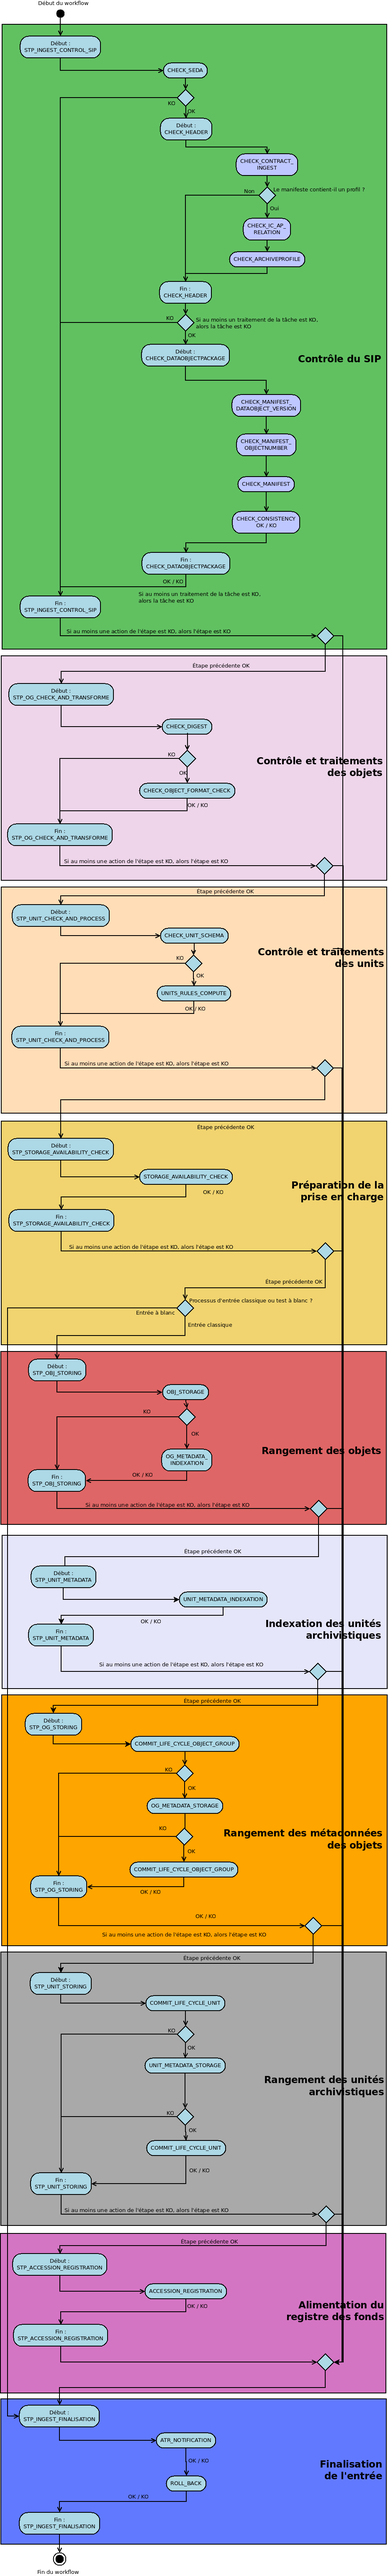
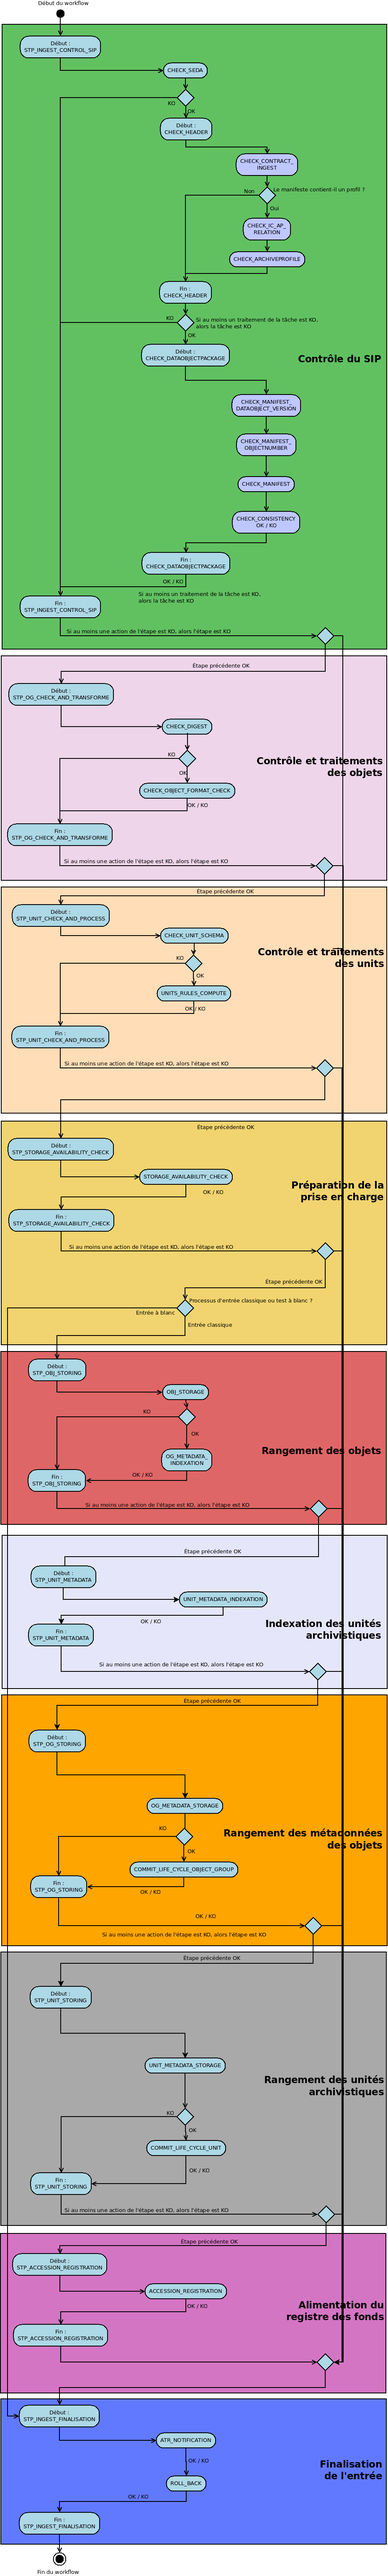
Update workflow model and diagram

diff --git a/doc/fr/workflow-model/ingest/workflow.rst b/doc/fr/workflow-model/ingest/workflow.rst
@@ -336,7 +336,7 @@ Ecriture des objets sur l'offre de stockage (OBJ_STORAGE)
 Indexation des métadonnées des groupes d'objets (OG_METADATA_INDEXATION)
 ~~~~~~~~~~~~~~~~~~~~~~~~~~~~~~~~~~~~~~~~~~~~~~~~~~~~~~~~~~~~~~~~~~~~~~~~
 
-+ **Règle** : indexation des métadonnées liées aux groupes d'objets, commela taille des objets, les métadonnées liées aux formats (Type MIME, PUID, etc.), l'empreinte des objets, etc.
++ **Règle** : indexation des métadonnées liées aux groupes d'objets, comme la taille des objets, les métadonnées liées aux formats (Type MIME, PUID, etc.), l'empreinte des objets, etc.
 
 + **Type** : bloquant.
 
@@ -371,23 +371,10 @@ Indexation des métadonnées des unités archivistiques (UNIT_METADATA_INDEXATIO
 Enregistrement et écriture des métadonnées des objets et groupes d'objets(STP_OG_STORING)
 ================================================================================================================
 
-Enregistrement des journaux du cycle de vie des groupes d'objets (COMMIT_LIFE_CYCLE_OBJECT_GROUP)
-~~~~~~~~~~~~~~~~~~~~~~~~~~~~~~~~~~~~~~~~~~~~~~~~~~~~~~~~~~~~~~~~~~~~~~~~~~~~~~~~~~~~~~~~~~~~~~~~~~~~~~~~~~~
-
-+ **Règle** : sécurisation en base des journaux du cycle de vie des groupes d'objets (avant cette étape, les journaux du cycle de vie des groupes d'objets sont dans une collection temporaire afin de garder une cohérence entre les métadonnées indexées et les journaux lors d'une entrée en succès ou en échec)
-
-+ **Type** : bloquant.
-
-+ **Statuts** :
-
-  - OK : La sécurisation des journaux du cycle de vie s'est correctement déroulée (COMMIT_LIFE_CYCLE_OBJECT_GROUP.OK=Succès de l'enregistrement des journaux du cycle de vie des groupes d''objets)
-
-  - FATAL : La sécurisation du journal du cycle de vie n'a pas pu être réalisée suite à une erreur technique (COMMIT_LIFE_CYCLE_OBJECT_GROUP.FATAL=Erreur fatale lors de l''enregistrement des journaux du cycle de vie des groupes d'objets)
-
 Ecriture des métadonnées du groupe d'objet sur l'offre de stockage (OG_METADATA_STORAGE)
 ~~~~~~~~~~~~~~~~~~~~~~~~~~~~~~~~~~~~~~~~~~~~~~~~~~~~~~~~~~~~~~~~~~~~~~~~~~~~~~~~~~~~~~~~~~~~~~~~~~~~~~~~~
 
-+ **Règle** : sauvegarde des métadonnées liées aux groupes d'objets sur les offres de stockage en fonction de la stratégie de stockage
++ **Règle** : sauvegarde des métadonnées liées aux groupes d'objets ainsi que leurs journaux de cycle de vie sur les offres de stockage en fonction de la stratégie de stockage
 
 + **Type** : bloquant.
 
@@ -414,23 +401,10 @@ Enregistrement des journaux du cycle de vie des groupes d'objets (COMMIT_LIFE_CY
 Enregistrement et écriture des unités archivistiques (STP_UNIT_STORING)
 ==========================================================================
 
-Enregistrement du journal du cycle de vie des unités archivistiques (COMMIT_LIFE_CYCLE_UNIT)
-~~~~~~~~~~~~~~~~~~~~~~~~~~~~~~~~~~~~~~~~~~~~~~~~~~~~~~~~~~~~~~~~~~~~~~~~~~~~~~~~~~~~~~~~~~~~~~~~~~~~~~~~~~~~~~
-
-+ **Règle** : sécurisation en base des journaux du cycle de vie des unités archivistiques (avant cette étape, les journaux du cycle de vie des unités archivistiques sont dans une collection temporaire afin de garder une cohérence entre les métadonnées indexées et les journaux lors d'une entrée en succès ou en échec)
-
-+ **Type** : bloquant.
-
-+ **Statuts** :
-
-  - OK : La sécurisation des journaux du cycle de vie s'est correctement déroulée (COMMIT_LIFE_CYCLE_UNIT.OK=Succès de l'enregistrement des journaux du cycle de vie des unités archivistiques)
-
-  - FATAL : La sécurisation des journaux du cycle de vie n'a pas pu être réalisée suite à une erreur système (COMMIT_LIFE_CYCLE_UNIT.FATAL=Erreur fatale lors de de l'enregistrement des journaux du cycle de vie des unités archivistiques)
-
 Ecriture des métadonnées de lunité archivistique sur loffre de stockage (UNIT_METADATA_STORAGE)
 ~~~~~~~~~~~~~~~~~~~~~~~~~~~~~~~~~~~~~~~~~~~~~~~~~~~~~~~~~~~~~~~~~~~~~~~~~~~~~~~~~~~~~~~~~~~~~~~~~~~~~~
 
-+ **Règle** : sauvegarde des métadonnées liées aux unités archivistiques sur les offres de stockage en fonction de la stratégie de stockage
++ **Règle** : sauvegarde des métadonnées liées aux unités archivistiques ainsi que leur journaux de cycle de vie sur les offres de stockage en fonction de la stratégie de stockage
 
 + **Type** : bloquant.
 
@@ -656,10 +630,6 @@ D'une façon synthétique, le workflow est décrit de cette façon :
 
 - **Step 7** - STP_OG_STORING : Rangement des métadonnées des objets
 
-  * COMMIT_LIFE_CYCLE_OBJECT_GROUP (CommitLifeCycleObjectGroupActionHandler.java)
-
-    + Enregistrement en base des journaux du cycle de vie des groupes d'objets
-
   * OG_METADATA_STORAGE (StoreMetaDataObjectGroupActionPlugin.java) :
 
     + Ecriture sur les offres de stockage des métadonnées des groupes d'objets.
@@ -669,10 +639,6 @@ D'une façon synthétique, le workflow est décrit de cette façon :
     + Enregistrement en base des journaux du cycle de vie des groupes d'objets
 
 - **Step 8** - STP_UNIT_STORING : Rangement des unités archivistique / distribution sur LIST GUID/Units
-
-  * COMMIT_LIFE_CYCLE_UNIT (CommitLifeCycleUnitActionHandler.java)
-
-    + Transformation sous la forme Json des unités archivistiques et intégration du GUID Unit et du GUID des groupes d'objets
 
   * UNIT_METADATA_STORAGE (StoreMetaDataUnitActionPlugin.java.java) :
 

diff --git a/sources/processing/doc/fr/manuel-dev/worker/workflow.rst b/sources/processing/doc/fr/manuel-dev/worker/workflow.rst
@@ -135,17 +135,13 @@ Etapes
 
 - **Step 7** - STP_OG_STORING : Rangement des métadonnées des objets
 
-  - COMMIT_LIFE_CYCLE_OBJECT_GROUP : Écriture des objets sur l’offre de stockage des BDO des GO
-
-  - OG_METADATA_STORAGE : Enregistrement en base des métadonnées des ObjectGroup
+  - OG_METADATA_STORAGE : Enregistrement en base des métadonnées des ObjectGroup ainsi que leurs journaux de cycle de vie
 
   - COMMIT_LIFE_CYCLE_OBJECT_GROUP : Écriture des objets sur l’offre de stockage des BDO des GO
 
 - **Step 8** - STP_UNIT_STORING : Index Units / distribution sur LIST GUID/Units
 
-  - COMMIT_LIFE_CYCLE_UNIT : Écriture des métadonnées des Units sur l’offre de stockage des BDO des GO
-
-  - UNIT_METADATA_STORAGE : Enregistrement en base des métadonnées des Units
+  - UNIT_METADATA_STORAGE : Enregistrement en base des métadonnées des Units ainsi que leurs journaux de cycle de vie
 
   - COMMIT_LIFE_CYCLE_UNIT : Écriture des métadonnées des Units sur l’offre de stockage des BDO des GO
 

diff --git a/doc/fr/workflow-model/masterdata/workflow-tree.rst b/doc/fr/workflow-model/masterdata/workflow-tree.rst
@@ -101,13 +101,9 @@ D'une façon synthétique, le workflow est décrit de cette façon :
 
 - **Step 3** - STP_UNIT_STORING : Rangement des unités archivistique / distribution sur LIST GUID/Units
 
-  * COMMIT_LIFE_CYCLE_UNIT (CommitLifeCycleUnitActionHandler.java)
-
-    + Enregistrement en base des journaux du cycle de vie des unités archivistiques
-
   * UNIT_METADATA_STORAGE (StoreMetaDataUnitActionPlugin.java.java) :
 
-    + Ecriture sur les offres de stockage des métadonnées des unités archivistiques.
+    + Ecriture sur les offres de stockage des métadonnées des unités archivistiques ainsi que leurs journaux de cycle de vie.
 
   * COMMIT_LIFE_CYCLE_UNIT (CommitLifeCycleUnitActionHandler.java)
 

diff --git a/doc/fr/workflow-model/ingest/workflow-plan.rst b/doc/fr/workflow-model/ingest/workflow-plan.rst
@@ -115,13 +115,9 @@ Diagramme d'activité du workflow du plan de classement
 
 - **Step 4** - STP_UNIT_STORING : Rangement des unités archivistique / distribution sur LIST GUID/Units
 
-  * COMMIT_LIFE_CYCLE_UNIT (CommitLifeCycleUnitActionHandler.java)
-
-    + Enregistrement en base des journaux du cycle de vie des unités archivistiques
-
   * UNIT_METADATA_STORAGE (StoreMetaDataUnitActionPlugin.java.java) :
 
-    + Ecriture sur les offres de stockage des métadonnées des unités archivistiques.
+    + Ecriture sur les offres de stockage des métadonnées des unités archivistiques ainsi que leurs journaux de cycle de vie.
 
   * COMMIT_LIFE_CYCLE_UNIT (CommitLifeCycleUnitActionHandler.java)
 
